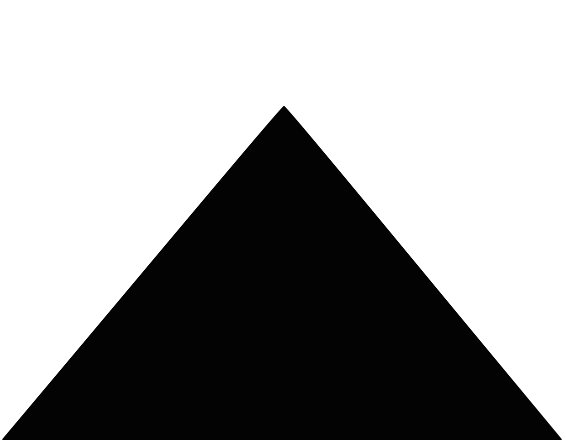
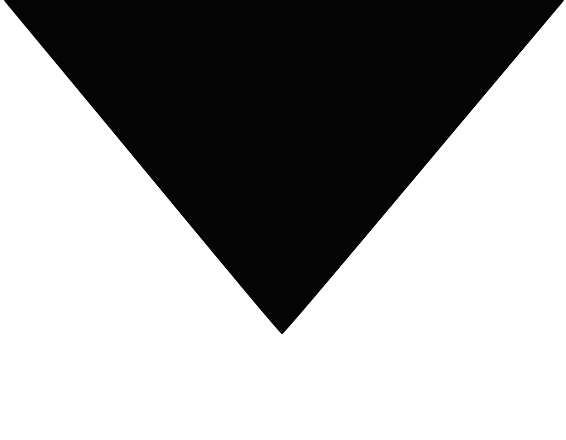
add basic rotating head and tail pieces

diff --git a/js/snake-view.js b/js/snake-view.js
@@ -82,11 +82,12 @@
 
   View.prototype.updateHeadAndTail = function() {
     var dir = this.board.snake.direction;
-    this.updateClasses([this.board.snake.head()], "head");
     this.updateClasses([this.board.snake.head()], dir);
+    this.updateClasses([this.board.snake.head()], "head");
     if (this.board.snake.segments.length > 1) {
-      this.updateClasses([this.board.snake.segments[0]], "tail");
-      this.updateClasses([this.board.snake.segments[0]], dir);
+      var tail = this.board.snake.segments[0];
+      this.updateClasses([tail], "tail");
+      this.$li.eq(tail.x * this.board.dim + tail.y).addClass(dir);
     }
   };
 

diff --git a/css/snake.css b/css/snake.css
@@ -64,10 +64,25 @@ li {
 }
 
 .snake.tail {
-  background-color: red;
+  background-color: transparent;
+  background-size: 100% 100%;
+  background-image: url("../tail.png");
 }
 
 .snake.head {
-  background-color: blue;
-  /*background-image: url("../head.png");*/
+  background-color: transparent;
+  background-size: 100% 100%;
+  background-image: url("../head.png");
+}
+
+.E {
+  -webkit-transform: rotate(90deg);
+}
+
+.S {
+  -webkit-transform: rotate(180deg);
+}
+
+.W {
+  -webkit-transform: rotate(270deg);
 }
